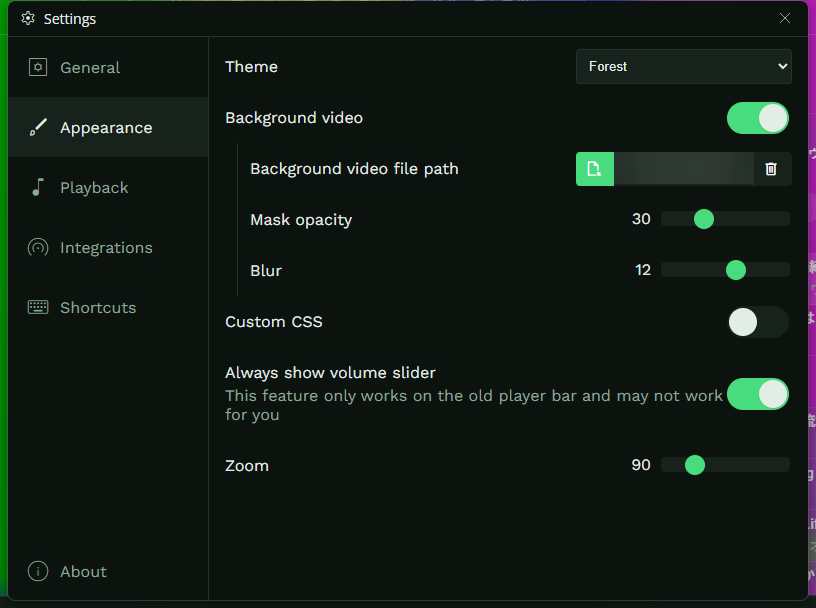
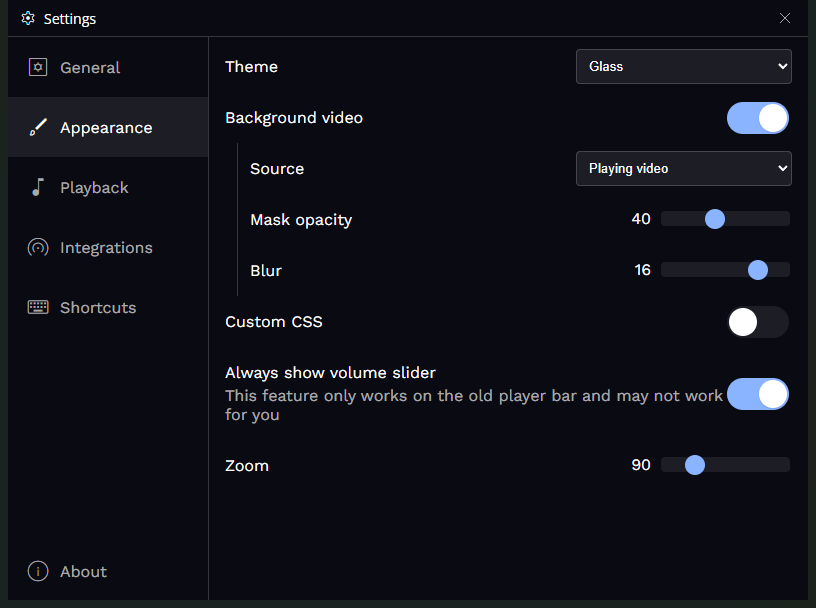
📝 Retake the README screenshots for the playing video background and the Glass theme

diff --git a/README.md b/README.md
@@ -28,6 +28,8 @@
 |---|---|
 | ![Midnight](.github/images/fork/theme-midnight.png) | ![Forest](.github/images/fork/theme-forest.png) |
 
+![Glass (再生中の動画の上のすりガラス)](.github/images/fork/theme-glass.png)
+
 ![テーマの設定](.github/images/fork/settings-theme.png)
 
 テーマファイルには、6 つの色項目を CSS 変数で書きます。
@@ -133,6 +135,8 @@ Pick a color theme in **Appearance → Theme**. The same colors apply to the app
 | Midnight | Forest |
 |---|---|
 | ![Midnight](.github/images/fork/theme-midnight.png) | ![Forest](.github/images/fork/theme-forest.png) |
+
+![Glass (frosted surfaces over the playing video)](.github/images/fork/theme-glass.png)
 
 ![Theme settings](.github/images/fork/settings-theme.png)
 
